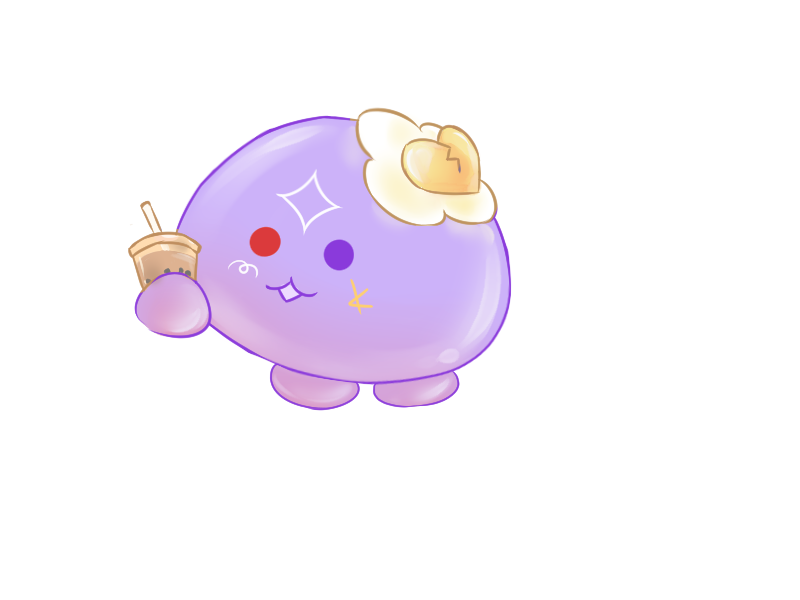
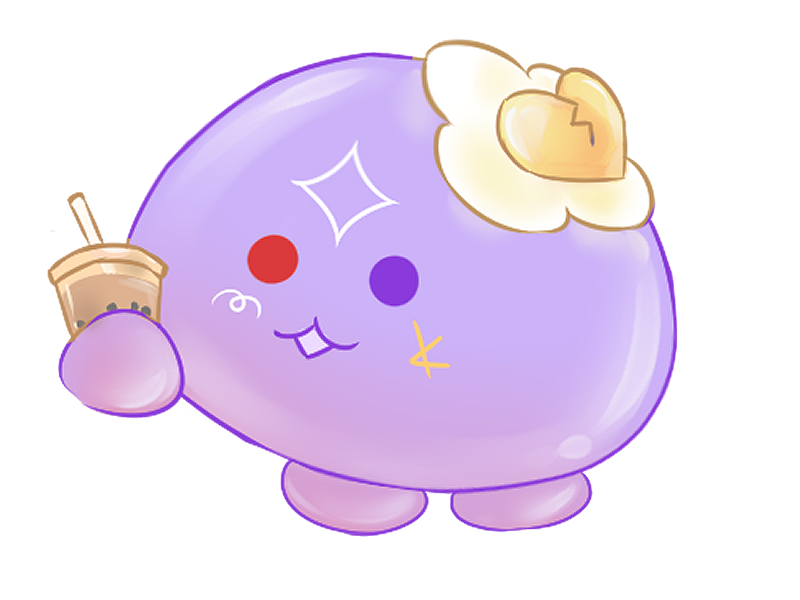
Update staff image

diff --git a/index.html b/index.html
@@ -405,7 +405,7 @@
             },
             {
                 name : "Misty",
-                img : "./img/easter-egg/ukistory05.jpg",
+                img : "./img/Misty.png",
                 accountDisplay: "@qwqouo",
                 link : "https://twitter.com/qwqouo"
             },
@@ -495,7 +495,7 @@
             text: 'Happy birthday Uki!🎉 <br/>Thank you for being here, being the one chosen by the stars, you deserve our love💜 💜 💜'
         },
         {
-            img : './img/easter-egg/ukistory05.jpg',
+            img : './img/Misty.png',
             text: 'Happy Birthday Uki!<br/>You are the star in my life✨<br/>Love you💜💜💜'
         }
     ];
